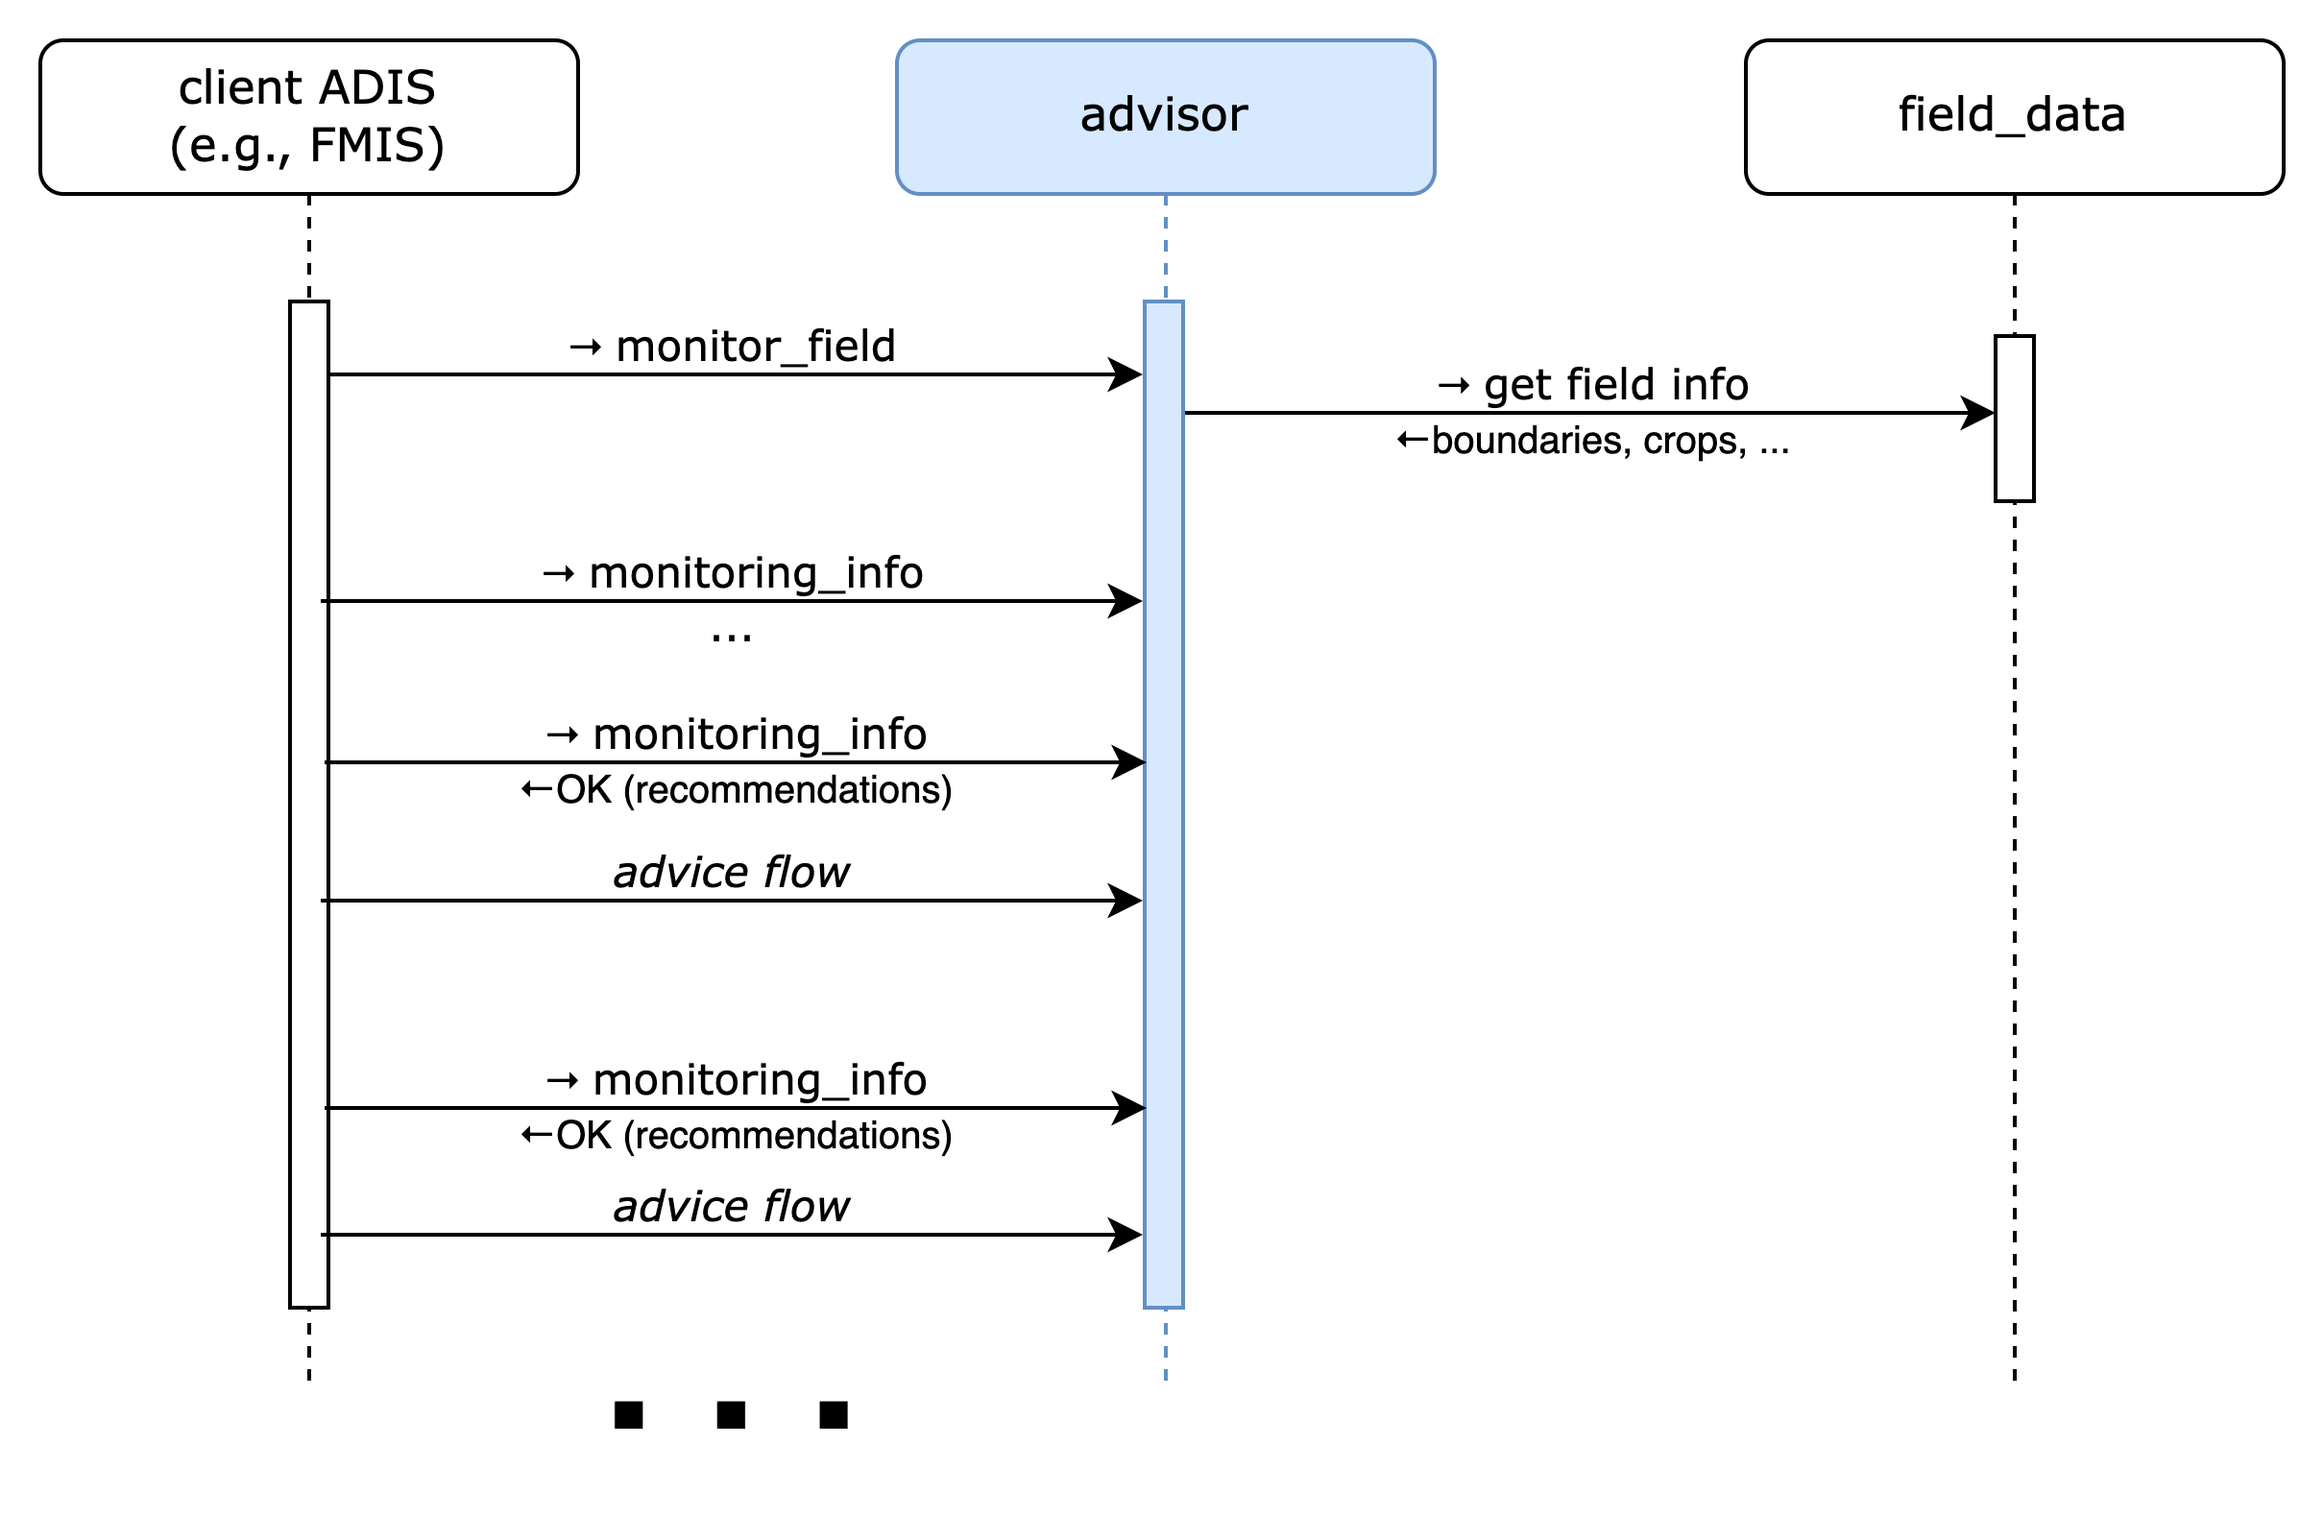
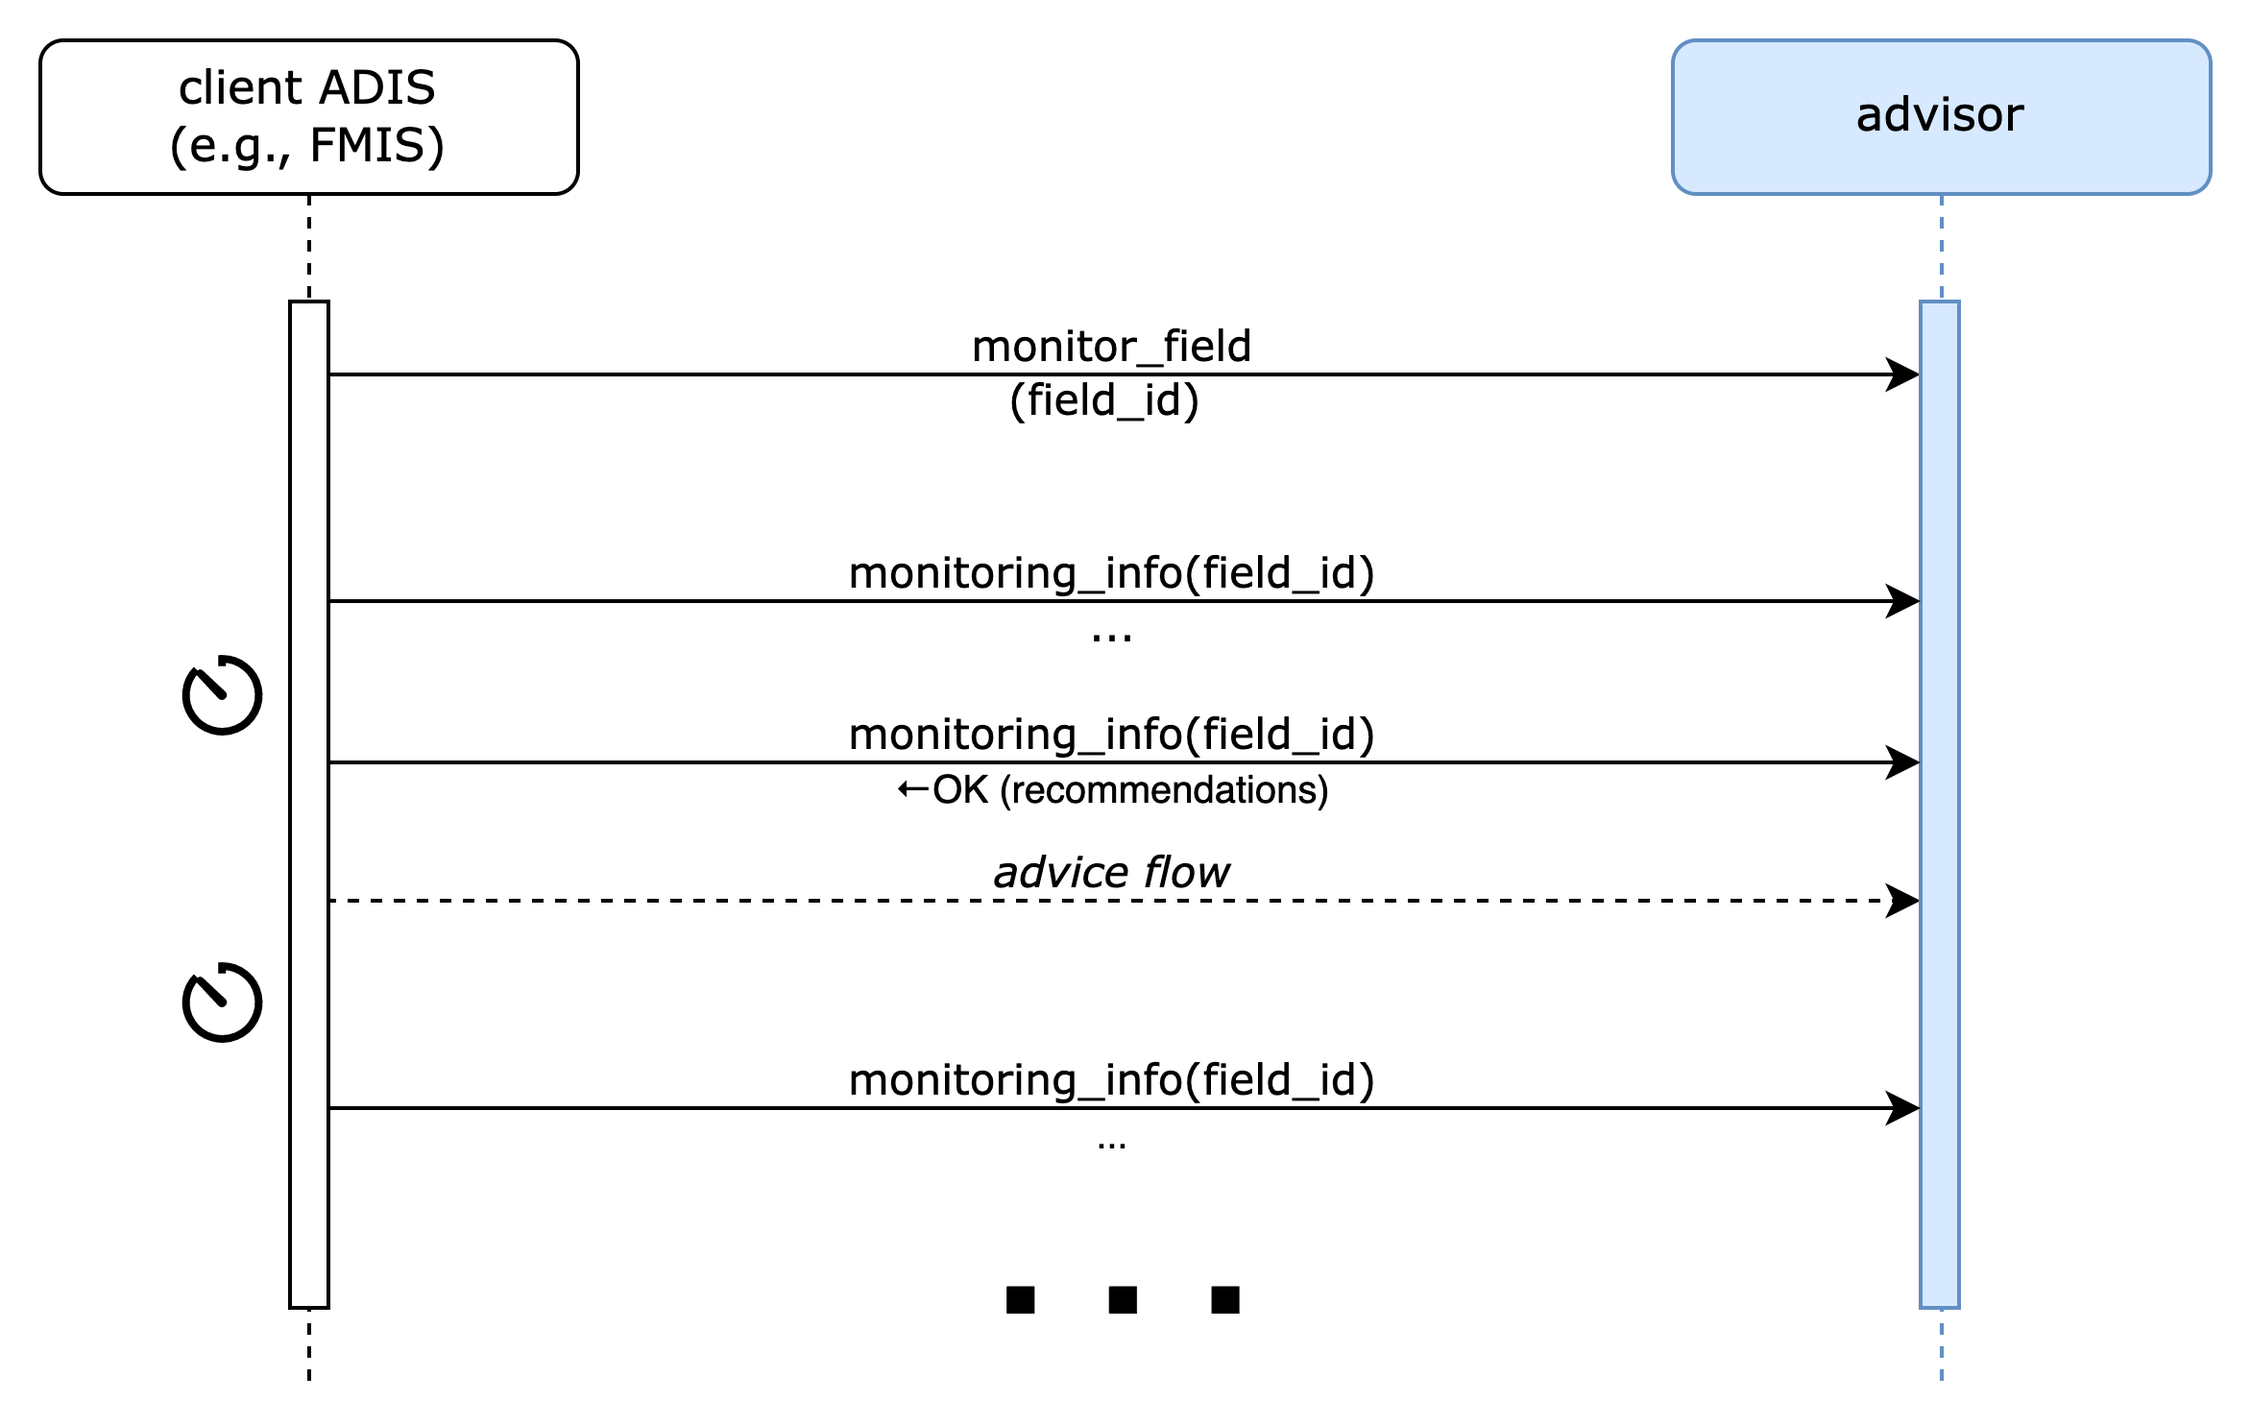
Advisor pattern

diff --git a/doc.html b/doc.html
@@ -47,15 +47,35 @@ both service consumers or service provider implementors:
     - GeoJSON specifications (<a href="https://geojson.org/">https://geojson.org/</a>)
     - GeoPackage specifications (<a href="https://www.geopackage.org/">https://www.geopackage.org/</a>)
 </pre>
-<h2>4 crop_protection_advisor Usage Scenarios</h2>
+<h2>4 The Advisor Lifecycle</h2>
 
-The following sections describe some aspects of the use of the crop_protection_advisor service template.  The examples were chosen to illustrate the basic functions of applications using crop_protection_advisor, not to limit what crop_protection_advisor may be used for.
-
-The typical use case scenarios with a crop_protection_advisor service typically an FMIS that orchestrates operations with a field_data and the ATLAS Equipment Centre as can be seen below:
+crop_protection_advisor is an "advisor-type" service template. All such services follow a common pattern that typically (but not always) involves the ATLAS Equipment Centre, and an ATLAS-enabled Digital Information System such as an FMIS, as seen below:
 
 <img src="doc/advisor_pattern.png" style="width: 420px" />
 
-<h2>5 Service Template API Overview</h2>
+The high level flow is: prepare an advice for a farming operation => submit a task with the advice and the equipment that it should be carried with => retrieve the application map from the advice just before sending it to the equipment => carry out the task with the equipment on the field => retrieve the "as applied" information from the equipment and record it on the field_data service
+
+The ADIS will usually have a mirror copy of the fields, preloaded from a field_data service.
+
+If the monitoring functionality is supported by an advisor, in a setup phase, the ADIS may activate the monitoring of a field, providing a notification url. In the operation phase, the ADIS may either poll for recommendations or receive notifications with recommendations from the advisor (see Dynamic Behaviour). The advisor service must be paired with the requested field's field_data service in order to retrieve the field's boundaries and any other information that may be relevant (crop, previous applications, ...)
+
+The ADIS may use recommendations (recommendations are specific to the type of advisor) as the basis of an advice preparation or it may manually decide to prepare an advice based on its own criteria (2).
+
+Depending on service implementations, advice preparations could take milliseconds to hours (in some cases, weeks) to complete. The ADIS will have to either poll the advisor or register a notification_url in the preparation request to determine when an advice is completed and a task may be created (see Dynamic Behaviour).
+
+As an advice is ready, the ADIS will usually let the user select an equipment out of the ones he owns (3) and then submits a task to the ATLAS Equipment Centre, with the advice and the selected equipment as parameters (4). The task is recorded by the ATLAS Equipment Centre but may take an unknown amount of time before it is actually carried out.
+
+When the ATLAS Equipment Centre determines that a task is ready to be executed (available worker and equipment), it retrieves the application map (5), just before starting the task, giving the advisor the opportunity to update potentially pre-computed maps taking latest information (weather, new applications, ...) into account. That information is sent to the tractor (6), and eventually, "as applied" information is sent back (7) to the ATLAS Equipment Centre which then records the application on the appropriate field_data service (8). Note that results may be partial, resulting in multiple applications for a single task.
+
+When the task is finished, it is marked as completed, and a notification is sent back to the ADIS (9), but only if it provided a notification URL. Note that when a notification URL is provided with the task, notifications will also be changed for any status change.
+
+<h2>5 crop_protection_advisor Usage Scenarios</h2>
+
+A common use case for crop protection is to monitor a field for one or more diseases and plan crop protection tasks whenever the risk for a monitored disease exceeds a configured threshold.
+
+Complementary scenarios may include "intelligent equipment" that adjusts an incoming crop preotection advice with real-time information collected from on-board sensors (e.g. size of trees, more precise detection of infestations, ...).
+
+<h2>6 Service Template API Overview</h2>
 
 This section provides a very high-level summary of the crop_protection_advisor API:
 <pre>
@@ -86,11 +106,11 @@ Only the most meaningful parameters are discussed in this document. Please refer
 
 crop_protection_advisor services are not required to handle intense traffic from a single client, such as the one that may result from being directly invoked on user interface interactions in an FMIS, for instance. Implementors MAY generate a 429 TOO MANY REQUESTS error response if the rate of calls exceed some pre-defined quota.
 
-<h2>5.1 Disease Monitoring Endpoints</h2>
+<h2>6.1 Disease Monitoring Endpoints</h2>
 
 These functions relate to registering, and unregistering fields for which alerts are desired. crop_protection_advisor services may provide the means to actively monitor fields and generate disease alerts when crop protection applications are recommended.
 
-<h2>5.1.1 Monitor Field</h2>
+<h2>6.1.1 Monitor Field</h2>
 
 This endpoint registers a field to be monitored for one or more disease risks.
 <pre>
@@ -109,7 +129,7 @@ NOTE: a crop_protection_advisor service MAY not support field monitoring. In tha
 
 See Disease Monitoring for details on the monitoring notification process.
 
-<h2>5.1.2 Get field monitoring info</h2>
+<h2>6.1.2 Get field monitoring info</h2>
 
 This endpoint returns the diseases monitored on a field along with potential recommendations for crop protection operations to be performed based on a detected disease risk.
 <pre>
@@ -125,7 +145,7 @@ The status may be one of IN_PROGRESS, CONFIGURATION_REQUIRED, READY, FAILED. In 
 
 If the status is READY then there may be one or more recommendations, to perform crop protection for a monitored disease operations on the field.
 
-<h2>5.1.3 Unmonitor field</h2>
+<h2>6.1.3 Unmonitor field</h2>
 
 This endpoint cancels monitoring for a field.
 <pre>
@@ -137,11 +157,11 @@ This endpoint cancels monitoring for a field.
 |     Outputs |                              |
 +-------------+------------------------------+
 </pre>
-<h2>5.2 Advice Endpoints</h2>
+<h2>6.2 Advice Endpoints</h2>
 
 These endpoints relate to the creation of crop protection advices.
 
-<h2>5.2.1 Prepare Advice</h2>
+<h2>6.2.1 Prepare Advice</h2>
 
 This endpoint is used to request an advice to be prepared for protecting against specified diseases and the products that are at disposition.
 <pre>
@@ -158,7 +178,7 @@ crop_protection_advisor services may retrieve any relevant information for prepa
 
 Advice preparation may be a lengthy process. Clients may either poll or request to be notified to determine that the advice is READY (see Advice Preparation).
 
-<h2>5.2.2 Get Advice Info</h2>
+<h2>6.2.2 Get Advice Info</h2>
 
 This function returns status information about an advice.
 <pre>
@@ -172,7 +192,7 @@ This function returns status information about an advice.
 </pre>
 In addition to the information submitted when preparing the advice, the advice info also contains a status about the advice preparation which is one of IN_PROGRESS, CONFIGURATION_REQUIRED, READY, FAILED. In this context, the IN_PROGRESS status indicates that some background processing is still being carried out and that the advice is not yet. The CONFIGURATION_REQUIRED status indicates that the end-user is required to perform some manual configuration on the service’s proprietary UI in order to enable the completion of the requested advice.
 
-<h2>5.2.3 Cancel Advice</h2>
+<h2>6.2.3 Cancel Advice</h2>
 <pre>
 +--------------------------------------------+
 | cancel_advice                              |
@@ -184,7 +204,7 @@ In addition to the information submitted when preparing the advice, the advice i
 </pre>
 Invoking this endpoint causes the advice status to become FAILED. If an advice that is not yet in READY state is cancelled and if a notification URL was provided in the prepare_advice request, a notification MUST be dispatched.
 
-<h2>5.2.4 Get Application Info</h2>
+<h2>6.2.4 Get Application Info</h2>
 
 This endpoint may only be performed on advices whose status is READY. It returns a download URL to the application map and the total estimated amount of product needed carry out the application.
 <pre>
@@ -202,11 +222,11 @@ The status may be one of IN_PROGRESS, CONFIGURATION_REQUIRED, READY, FAILED. In 
 
 For maximum accuracy, the application map is requested in a "just-in-time" fashion by the ATLAS Equipment Centre (or any other consumer) to give an opportunity to advisors to make adjustments to their pre-computed preparation. However, since this information is usually requested just as farmers are about to go out on the field to perform a task, it is important that it is computed in a short time (maximum, few seconds). Any potentially time-consuming processing must be pre-computed and cached internally during the registration and/or preparation stages.
 
-<h2>6 Data Formats</h2>
+<h2>7 Data Formats</h2>
 
 This section focuses on the description of binary (file) data formats. Please refer to the crop_protection_advisor OpenAPI specifications for details on all other payload and parameter descriptions.
 
-<h2>6.1	Product Application File Format</h2>
+<h2>7.1	Product Application File Format</h2>
 
 Product application data MUST be in GeoPackage (<a href="https://www.geopackage.org">https://www.geopackage.org</a>) format version 1.2 or newer.
 <pre>
@@ -351,7 +371,7 @@ Crop protection "application_info.info" is a JSON object serialized as a string,
 </pre>
 The standard for Crop protection substances identifiers is taken from the Pesticide Properties DataBase (PPDB, http://sitem.herts.ac.uk/aeru/ppdb/en/index.htm); more specifically, the "CAS RN" (Chemical Abstracts Service Registry Number) from a PPDB entry.
 
-<h2>7 Access and Authentication</h2>
+<h2>8 Access and Authentication</h2>
 
 Farmers MUST have an account setup on an advisor service in order to authenticate and access API endpoints. The service implementor is responsible for the creation of accounts; it is not covered in the service template specifications.
 
@@ -359,21 +379,17 @@ Unless specifically documented in the OpenAPI specifications, all API calls must
 
 Some of the information held by advisor services may be considered sensitive from a GDPR perspective. The service's authorization server SHOULD request the client's end-user consent at service pairing time in order to deliver an access token.
 
-<h2>8 Dynamic Behaviour</h2>
+<h2>9 Dynamic Behaviour</h2>
 
 The purpose of the diagrams in this section is to illustrate communication patterns, more complex than plain request/response API calls, that involve several interactions and/or asynchronous behaviour. Even though a sequence diagram representation is used, the diagrams are by no means to be interpreted as UML Sequence Diagrams. Specifically, in the spirit of focusing on functional behaviour and readability, error handling is deliberately not covered in the diagrams.
 
-<h2>8.1	Crop Protection Lifecycle</h2>
+The dynamic behaviour is similar for most advisor-type service templates (see The Advisor Lifecycle).
 
-The "Crop Protection lifecycle" in ATLAS typically operates in a larger context involving three services and an end-user application such as an FMIS which, in collaboration, provide an end-to-end solution from algorithmically computed advices to actual operations performed on a field.
-
-<img src="doc/advisor_lifecycle.png" style="width: 420px" />
-
-<h2>8.2 Advice Preparation</h2>
+<h2>9.1 Advice Preparation</h2>
 
 There are two methods for determining whether an advice preparation has completed (successfully or unsuccessfully): by polling the advice_info endpoint or by notification.
 
-<h2>8.2.1 Polling</h2>
+<h2>9.1.1 Polling</h2>
 
 After requesting an advice preparation, the client polls the advice_info endpoint at regular intervals until the returned status is READY or FAILED.
 
@@ -381,7 +397,7 @@ The status may be CONFIGURATION_REQUIRED which indicates that a user action is r
 
 <img src="doc/advice_polling.png" style="width: 420px" />
 
-<h2>8.2.2 Notification</h2>
+<h2>9.1.2 Notification</h2>
 
 If a notification URL was supplied on the prepare_advice endpoint, it will be invoked by the advisor when the preparation status changes.
 
@@ -389,17 +405,17 @@ If a notification URL was supplied on the prepare_advice endpoint, it will be in
 
 Advisors MUST invoke the notification URL supplied by the client with an HTTPS POST command. The payload will be identical to the one that would be returned by the advice_info request.
 
-<h2>8.3 Field Monitoring</h2>
+<h2>9.2 Field Monitoring</h2>
 
 Advanced advisors have the ability to monitor conditions on fields in the background and proactively generate crop protection recommendations. There are two methods for determining whether recommendations are available: by polling the monitoring_info endpoint or by notification.
 
-<h2>8.3.1 Polling</h2>
+<h2>9.2.1 Polling</h2>
 
 After requesting a field to be monitored, the client polls monitoring_info endpoint at regular intervals to check whether any 'recommendations' are available.
 
 <img src="doc/monitoring_polling.png" style="width: 420px" />
 
-<h2>8.3.2 Notification</h2>
+<h2>9.2.2 Notification</h2>
 
 If a notification URL was supplied on the monitor_field endpoint, it will be invoked by the advisor when a new recommendation becomes available.
 
@@ -407,7 +423,7 @@ If a notification URL was supplied on the monitor_field endpoint, it will be inv
 
 Advisors MUST invoke the notification URL supplied by the client with an HTTPS POST command. The payload will be as defined in the OpenAPI 'Recommendation' specifications.
 
-<h2>8.4 General Comments on Notifications</h2>
+<h2>9.3 General Comments on Notifications</h2>
 
 Services must provide best efforts to deliver notifications. A notification is considered successful if the target returns an http result code 2XX.
 
